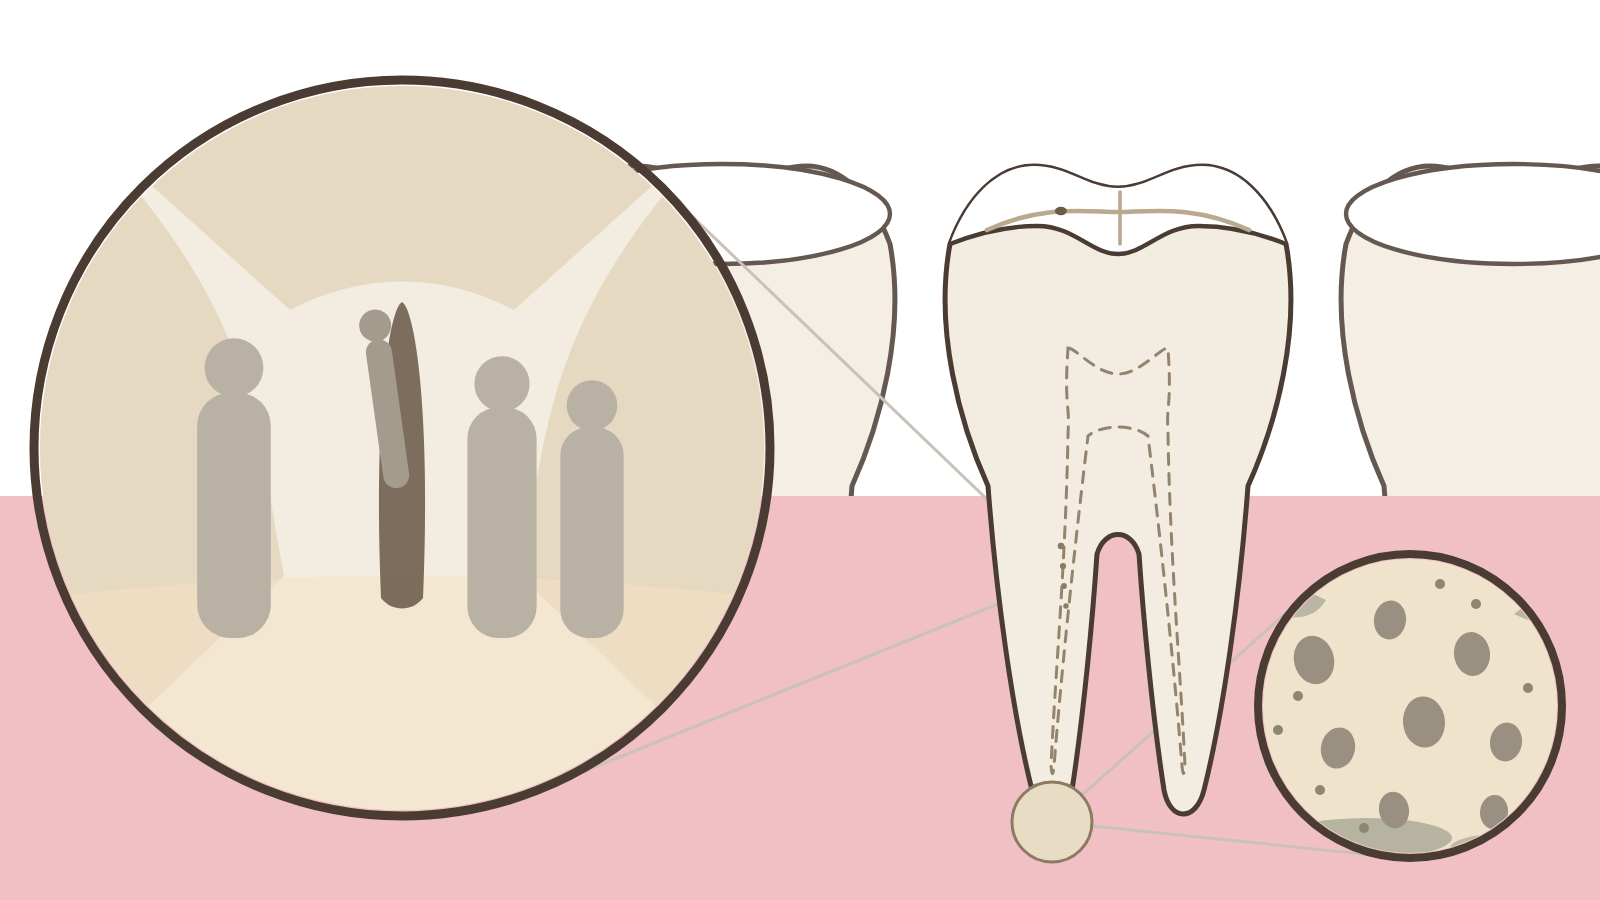
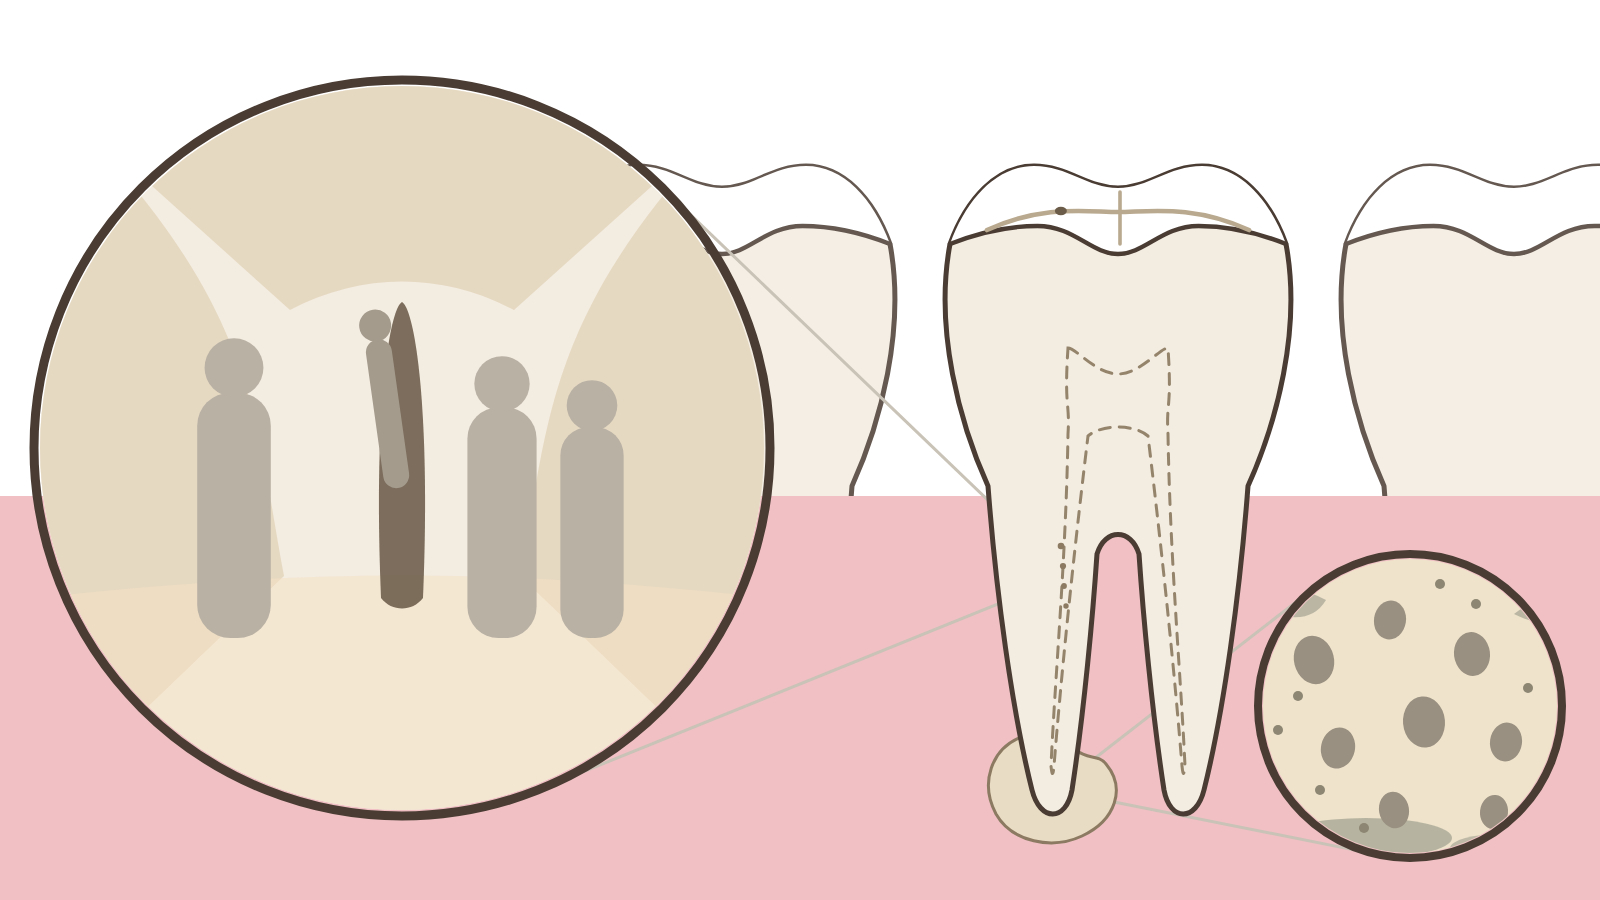
〈根管鈣化〉HERO 第十五輪：鄰牙補上牙尖、膿包改成歪的一團並包住根尖
使用者：「其他顆牙齒的咬合部位是削平的很奇怪　細菌的膿包這次沒有對到根尖
而且膿包不應該是一個正圓」。

・鄰牙：第十輪把主角那顆的咬合面改成兩排牙尖時，neighbour() 裡那行
  舊的 <ellipse> 沒有跟著改，所以三顆牙有兩顆還是舊的平頂。
  把 table 的定義搬到 neighbour 之前、鄰牙直接用同一塊；
  提示詞補一句鄰牙一樣有牙尖，AVOID 補三條。
  ⚠ 通則：改了一個形狀，要去找它所有的複本。

・膿包：本來是 <circle r=40> 掛在根尖下方。改成歪的不對稱一團，
  中心往上挪到 APEX-22，而且畫到牙齒底下那一層 —— 這一步才是關鍵：
  畫在上面會把根尖蓋住，畫在底下根尖才會變成「插進膿包裡」。
  提示詞把兩件寫死，AVOID 補四條。

Claude-Session: https://claude.ai/code/session_0131yZgrnMDF1Q9xBCBg3Gcp

diff --git a/drafts/pulp-calcification/hero-prompt.md b/drafts/pulp-calcification/hero-prompt.md
@@ -623,3 +623,33 @@ node tools/webp.mjs
   細的均勻線＋平塗＝ 已經飄向那張技術圖，回去讀 STYLE。」
 - 四個人**各自再交代一次帽兜與面罩**（上一輪出圖只有領隊穿著）——
   ⚠ 通則：**總則被稀釋掉的時候，逐項重講比把總則寫得更大聲有效。**
+
+## 一之十四、第十五輪（2026-09-22）：鄰牙被削平、膿包是正圓且沒對到根尖
+
+> 「很接近了　其他顆牙齒的咬合部位是削平的很奇怪
+> 　細菌的膿包這次沒有對到根尖　而且膿包不應該是一個正圓」
+
+### 1. ⚠⚠⚠ 鄰牙還留著**舊版的咬合面**
+
+第十輪把主角那顆的咬合面從「壓扁的橢圓蓋子」改成兩排牙尖，
+**但 `neighbour()` 裡那一行 `<ellipse rx=R ry=RY>` 沒有跟著改** ——
+所以參考圖上三顆牙有兩顆還是舊的，出圖就是「杯口被削平的杯子」。
+
+做法：把咬合面那一塊（`table`）的定義搬到 `neighbour` 之前，鄰牙直接用同一塊。
+提示詞也補一句：**鄰牙的頂端和主角那顆一樣有兩個牙尖與中間的凹**，
+`AVOID` 補三條（平頂、杯口、沒有牙尖）。
+
+⚠⚠ 通則：**改了一個形狀，要去找它所有的複本。**
+這一站已經踩過同一類兩次了（人數文圖不一致、小點數量沒跟著改），
+症狀都一樣：**不報錯、參考圖單看也正常，只有出圖才看得出來。**
+
+### 2. 膿包
+
+兩件都是我畫的：`<circle r=40>`（**正圓**）＋ 中心掛在根尖**下方**（沒有包住）。
+
+做法：
+- 改成**歪的、不對稱的一團**（右上收一個小凹、左下鼓一塊），不再用 `<circle>`。
+- 中心往上挪到 `APEX-22`，而且**把它畫到牙齒底下那一層** ——
+  ⚠ 這一步才是關鍵：畫在牙齒上面的話，膿包會把根尖蓋住；
+  畫在底下，**根尖就變成「插進膿包裡」**，一眼就讀得出是根尖周圍的病灶。
+- 提示詞把這兩件寫死（不是圓、根尖插在裡面），`AVOID` 補四條。
